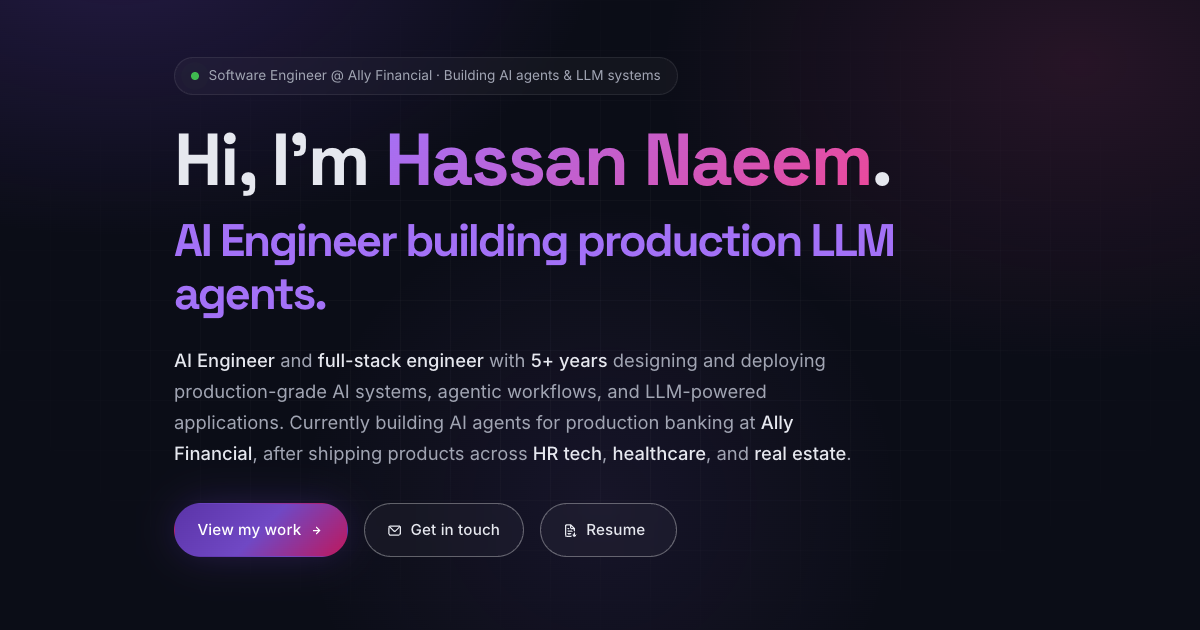
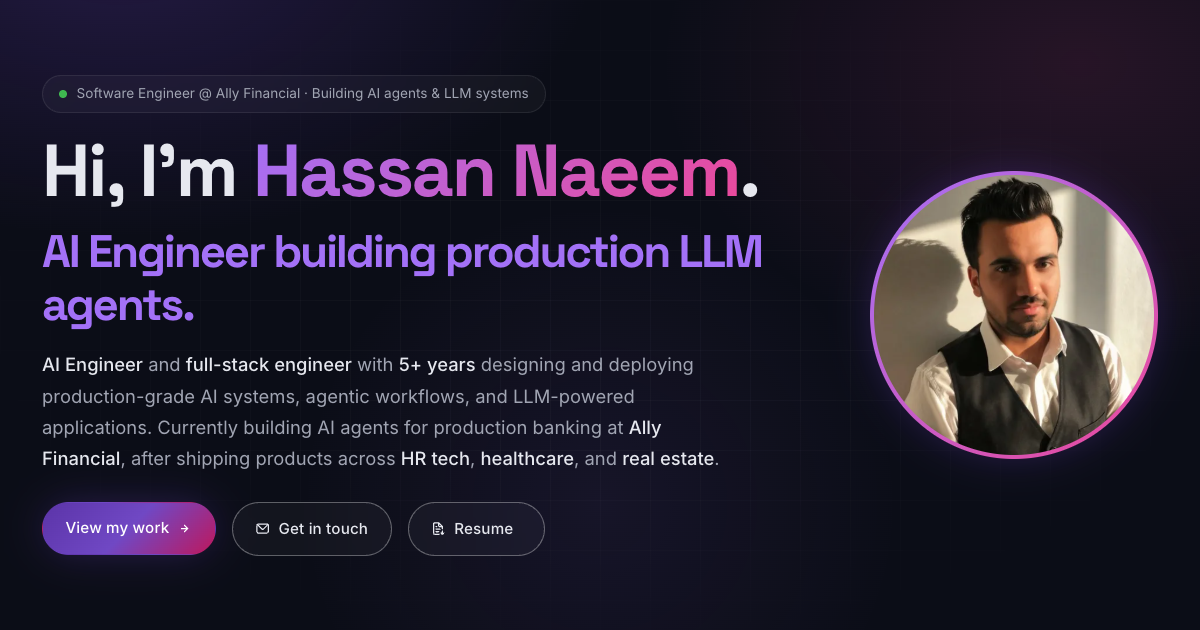
Add portrait, project screenshots and headline metrics
- Hero portrait (WebP, 240/480 srcset) and real headshot in JSON-LD
- Screenshots on VitaLens, Emotion Modeling, Fresh Leads, Neural-Engine
  and CodeLikeBasics cards, lazy-loaded WebP with srcset
- One-line headline metric on each of those cards
- Culturefy entry: scaled to 100K+ users
- New OG preview with portrait; README gets headshot and screenshots

diff --git a/index.html b/index.html
@@ -35,7 +35,7 @@
       property="og:description"
       content="AI Engineer and Software Engineer at Ally Financial, building AI agents and LLM systems. Projects: VitaLens X-ray mirror, emotion modeling with uncertainty, Fresh Leads, Neural-Engine, and more."
     />
-    <meta property="og:image" content="https://hassan-naeem.com/preview.png?v=20261115" />
+    <meta property="og:image" content="https://hassan-naeem.com/preview.png?v=20261115b" />
     <meta property="og:image:width" content="1200" />
     <meta property="og:image:height" content="630" />
     <meta property="og:image:alt" content="Hassan Naeem — AI Engineer portfolio preview" />
@@ -49,7 +49,7 @@
       name="twitter:description"
       content="AI Engineer and Software Engineer at Ally Financial, building AI agents and LLM systems. Projects: VitaLens X-ray mirror, emotion modeling with uncertainty, Fresh Leads, Neural-Engine, and more."
     />
-    <meta name="twitter:image" content="https://hassan-naeem.com/preview.png?v=20261115" />
+    <meta name="twitter:image" content="https://hassan-naeem.com/preview.png?v=20261115b" />
 
     <!-- Favicons -->
     <link rel="icon" type="image/svg+xml" href="./assets/img/favicon.svg" />
@@ -64,7 +64,7 @@
     <link rel="preload" as="font" type="font/woff2" href="./assets/fonts/space-grotesk-700.woff2" crossorigin />
 
     <!-- Styles (bump ?v= when the file changes; assets are cached as immutable) -->
-    <link rel="stylesheet" href="./assets/css/styles.css?v=20261115" />
+    <link rel="stylesheet" href="./assets/css/styles.css?v=20261115b" />
 
     <!-- Structured data: Person schema (Google rich results) -->
     <script type="application/ld+json">
@@ -74,7 +74,7 @@
         "name": "Hassan Naeem",
         "alternateName": "Hassan Naeem",
         "url": "https://hassan-naeem.com/",
-        "image": "https://hassan-naeem.com/assets/img/favicon.png",
+        "image": "https://hassan-naeem.com/assets/img/hassan-naeem.jpg",
         "jobTitle": "Software Engineer",
         "worksFor": {
           "@type": "Organization",
@@ -190,6 +190,7 @@
       <!-- ============ HERO ============ -->
       <section class="hero" id="home">
         <div class="hero__container container">
+          <div class="hero__text">
           <div class="hero__badge">
             <span class="hero__badge-dot"></span>
             Software Engineer @ Ally Financial · Building AI agents &amp; LLM systems
@@ -254,6 +255,19 @@
               aria-label="Email"
               ><svg class="icon" aria-hidden="true"><use href="/assets/img/icons.svg?v=20261115#i-envelope"/></svg></a>
           </div>
+          </div>
+
+          <figure class="hero__portrait">
+            <img
+              src="./assets/img/hassan-naeem-480.webp"
+              srcset="./assets/img/hassan-naeem-240.webp 240w, ./assets/img/hassan-naeem-480.webp 480w"
+              sizes="(max-width: 900px) 112px, 300px"
+              width="480" height="480"
+              alt="Portrait of Hassan Naeem"
+              fetchpriority="high"
+              decoding="async"
+            />
+          </figure>
         </div>
 
         <div class="hero__marquee" aria-hidden="true">
@@ -574,8 +588,8 @@
                   Architected and deployed a production AI Agent system
                   integrating VAPI.ai LLM, HeyGen, AWS Transcribe, and OpenAI
                   APIs, enabling voice-command interactions, autonomous
-                  content generation, and real-time dashboard control.
-                  Designed agentic recruitment workflows with LLM-driven
+                  content generation, and real-time dashboard control,
+                  <strong>scaled to 100K+ users</strong>. Designed agentic recruitment workflows with LLM-driven
                   candidate ranking, interview-scheduling automation, and
                   offer-letter generation via BambooHR integration. Built a
                   GraphQL campaign-intelligence module with ML-driven
@@ -657,6 +671,16 @@
           <div class="projects__grid">
 
             <article class="project" data-reveal>
+              <img
+                class="project__media"
+                src="./assets/img/projects/vitalens-640.webp"
+                srcset="./assets/img/projects/vitalens-640.webp 640w, ./assets/img/projects/vitalens-1280.webp 1280w"
+                sizes="(max-width: 700px) 100vw, 380px"
+                width="1280" height="800"
+                alt="VitaLens landing page: a 3D skeleton and organs tracking a person in real time"
+                loading="lazy"
+                decoding="async"
+              />
               <div class="project__head">
                 <svg class="icon project__icon" aria-hidden="true"><use href="/assets/img/icons.svg?v=20261115#i-user-md"/></svg>
                 <div class="project__links">
@@ -668,6 +692,7 @@
                 </div>
               </div>
               <h3>VitaLens · Live X-ray Mirror</h3>
+              <p class="project__metric">~1,200 rigged anatomy parts · 9 languages · on-device tracking</p>
               <p>
                 Point a webcam at yourself and see an anatomical
                 <strong>3D skeleton, organs and vessels</strong> move with you
@@ -687,6 +712,16 @@
             </article>
 
             <article class="project" data-reveal>
+              <img
+                class="project__media"
+                src="./assets/img/projects/emotion-640.webp"
+                srcset="./assets/img/projects/emotion-640.webp 640w, ./assets/img/projects/emotion-1280.webp 1280w"
+                sizes="(max-width: 700px) 100vw, 380px"
+                width="1280" height="800"
+                alt="Emotion Modeling demo page: face mesh with valence–arousal, pulse and blink readouts"
+                loading="lazy"
+                decoding="async"
+              />
               <div class="project__head">
                 <svg class="icon project__icon" aria-hidden="true"><use href="/assets/img/icons.svg?v=20261115#i-smile"/></svg>
                 <div class="project__links">
@@ -703,6 +738,7 @@
                 </div>
               </div>
               <h3>Emotion Modeling · Knowing When It Doesn't Know</h3>
+              <p class="project__metric">CCC 0.720 · 92% 2D coverage · 5 seeds</p>
               <p>
                 Valence–arousal estimation from faces that
                 <strong>reports its own uncertainty</strong>. Deep evidential
@@ -719,6 +755,16 @@
               </div>
             </article>
             <article class="project" data-reveal>
+              <img
+                class="project__media"
+                src="./assets/img/projects/freshleads-640.webp"
+                srcset="./assets/img/projects/freshleads-640.webp 640w, ./assets/img/projects/freshleads-1280.webp 1280w"
+                sizes="(max-width: 700px) 100vw, 380px"
+                width="1280" height="800"
+                alt="Fresh Leads home page with industry and location lead search"
+                loading="lazy"
+                decoding="async"
+              />
               <div class="project__head">
                 <svg class="icon project__icon" aria-hidden="true"><use href="/assets/img/icons.svg?v=20261115#i-crosshair"/></svg>
                 <div class="project__links">
@@ -730,6 +776,7 @@
                 </div>
               </div>
               <h3>Fresh Leads · Verified Local Leads</h3>
+              <p class="project__metric">Live SaaS · 571 passing tests · Stripe billing</p>
               <p>
                 A live SaaS that finds local businesses, verifies their phone
                 numbers and emails <strong>at search time</strong>, confirms
@@ -773,6 +820,16 @@
             </article>
 
             <article class="project" data-reveal>
+              <img
+                class="project__media"
+                src="./assets/img/projects/neural-640.webp"
+                srcset="./assets/img/projects/neural-640.webp 640w, ./assets/img/projects/neural-1280.webp 1280w"
+                sizes="(max-width: 700px) 100vw, 380px"
+                width="1280" height="800"
+                alt="Neural-Engine field guide: forward, loss, backward and update steps"
+                loading="lazy"
+                decoding="async"
+              />
               <div class="project__head">
                 <svg class="icon project__icon" aria-hidden="true"><use href="/assets/img/icons.svg?v=20261115#i-processor"/></svg>
                 <div class="project__links">
@@ -789,6 +846,7 @@
                 </div>
               </div>
               <h3>Neural-Engine · From First Principles</h3>
+              <p class="project__metric">~200 lines of Python · zero dependencies</p>
               <p>
                 A neural network and <strong>autograd engine</strong> in
                 ~200 lines of pure Python with zero libraries. A
@@ -924,6 +982,16 @@
             </article>
 
             <article class="project" data-reveal>
+              <img
+                class="project__media"
+                src="./assets/img/projects/codelikebasics-640.webp"
+                srcset="./assets/img/projects/codelikebasics-640.webp 640w, ./assets/img/projects/codelikebasics-1280.webp 1280w"
+                sizes="(max-width: 700px) 100vw, 380px"
+                width="1280" height="800"
+                alt="CodeLikeBasics welcome screen for new and returning learners"
+                loading="lazy"
+                decoding="async"
+              />
               <div class="project__head">
                 <svg class="icon project__icon" aria-hidden="true"><use href="/assets/img/icons.svg?v=20261115#i-book-open"/></svg>
                 <div class="project__links">
@@ -940,6 +1008,7 @@
                 </div>
               </div>
               <h3>CodeLikeBasics</h3>
+              <p class="project__metric">43+ programming languages · gamified</p>
               <p>
                 An interactive, gamified learning platform where beginners
                 master programming through tutorials, quiz games, and
@@ -1262,6 +1331,6 @@
       <svg class="icon" aria-hidden="true"><use href="/assets/img/icons.svg?v=20261115#i-arrow-up"/></svg>
     </a>
 
-    <script src="./assets/js/main.js?v=20261115"></script>
+    <script src="./assets/js/main.js?v=20261115b"></script>
   </body>
 </html>

diff --git a/assets/css/styles.css b/assets/css/styles.css
@@ -453,10 +453,34 @@ button {
 }
 
 .hero__container {
+  display: grid;
+  grid-template-columns: minmax(0, 1fr) auto;
+  align-items: center;
+  gap: 3rem;
+}
+.hero__text {
   display: flex;
   flex-direction: column;
   gap: 1.6rem;
-  max-width: 900px;
+  max-width: 780px;
+  min-width: 0;
+}
+
+.hero__portrait {
+  position: relative;
+  width: clamp(220px, 24vw, 300px);
+  aspect-ratio: 1;
+  border-radius: 50%;
+  padding: 4px;
+  background: var(--gradient-text);
+  box-shadow: var(--shadow-glow);
+}
+.hero__portrait img {
+  width: 100%;
+  height: 100%;
+  border-radius: 50%;
+  object-fit: cover;
+  background: var(--bg-elev);
 }
 
 .hero__badge {
@@ -865,6 +889,27 @@ button {
 }
 .project:hover::before { opacity: 1; }
 
+.project__media {
+  width: calc(100% + 1.5rem);
+  max-width: none;
+  margin: -0.75rem -0.75rem 1.25rem;
+  aspect-ratio: 16 / 10;
+  height: auto;
+  object-fit: cover;
+  object-position: top;
+  border-radius: calc(var(--radius-md) - 4px);
+  border: 1px solid var(--border);
+  background: var(--bg-elev);
+}
+
+.project__metric {
+  font-family: var(--font-mono);
+  font-size: 0.78rem;
+  color: var(--accent-2);
+  margin: -0.25rem 0 0.75rem;
+}
+.project p.project__metric { flex: 0; margin-bottom: 0.75rem; color: var(--accent-2); font-size: 0.78rem; }
+
 .project__head {
   display: flex;
   justify-content: space-between;
@@ -1136,6 +1181,9 @@ button {
   :root { --section-pad: 5rem; }
 
   .about__grid { grid-template-columns: 1fr; }
+
+  .hero__container { grid-template-columns: 1fr; gap: 1.5rem; }
+  .hero__portrait { order: -1; width: 112px; padding: 3px; }
 
   .nav__menu {
     visibility: hidden; /* keeps the closed menu out of tab order and the a11y tree */

diff --git a/privacy.html b/privacy.html
@@ -21,7 +21,7 @@
     <link rel="icon" type="image/png" href="./assets/img/favicon.png" />
 
     <!-- Styles -->
-    <link rel="stylesheet" href="./assets/css/styles.css?v=20261115" />
+    <link rel="stylesheet" href="./assets/css/styles.css?v=20261115b" />
   </head>
   <body>
     <div class="bg-gradient"></div>

diff --git a/README.md b/README.md
@@ -2,6 +2,12 @@
 <div align="center">
 
 <a href="https://hassan-naeem.com/">
+  <img src="https://hassan-naeem.com/assets/img/hassan-naeem-240.webp" width="140" height="140" alt="Hassan Naeem" />
+</a>
+
+<br>
+
+<a href="https://hassan-naeem.com/">
   <img src="https://readme-typing-svg.herokuapp.com?font=Fira+Code&weight=600&size=30&duration=3000&pause=800&color=6E40C9&center=true&vCenter=true&width=650&lines=Hi+%F0%9F%91%8B%2C+I'm+Hassan+Naeem;AI+Engineer+%F0%9F%A4%96;Full-Stack+Engineer+%E2%9A%A1;LLMs+%7C+Agents+%7C+RAG" alt="Typing SVG" />
 </a>
 
@@ -156,6 +162,8 @@ ask_me_about: [LLMs, Agents, RAG, React Native, Python, TypeScript]
 
 #### 🎯 [Fresh Leads — Verified Local Business Leads](https://www.fresh-leads.io)
 
+<a href="https://www.fresh-leads.io"><img src="https://hassan-naeem.com/assets/img/projects/freshleads-640.webp" alt="Fresh Leads home page" width="100%" /></a>
+
 Live SaaS that finds local businesses, verifies phones & emails at search time, confirms they're still trading, and scores each one against a buyer playbook. Public API, Stripe billing, required 2FA, 571 passing tests. [Live site](https://www.fresh-leads.io).
 
 ![Next.js](https://img.shields.io/badge/Next.js_15-000000?style=flat-square&logo=next.js&logoColor=white) ![TypeScript](https://img.shields.io/badge/TypeScript-3178C6?style=flat-square&logo=typescript&logoColor=white) ![Supabase](https://img.shields.io/badge/Supabase-3FCF8E?style=flat-square&logo=supabase&logoColor=white) ![Stripe](https://img.shields.io/badge/Stripe-635BFF?style=flat-square&logo=stripe&logoColor=white)
@@ -164,6 +172,8 @@ Live SaaS that finds local businesses, verifies phones & emails at search time, 
 <td width="50%" valign="top">
 
 #### 🎭 [Emotion Modeling — Knowing When It Doesn't Know](https://github.com/Hassan-Naeem-code/Emotion-Modelling)
+
+<a href="https://hassan-naeem.com/emotion-modeling"><img src="https://hassan-naeem.com/assets/img/projects/emotion-640.webp" alt="Emotion Modeling demo page" width="100%" /></a>
 
 Valence–arousal estimation from faces that **reports its own uncertainty**. Deep evidential regression on AffectNet (5 seeds, **CCC 0.720**) with a joint conformal score that lifts true 2D coverage from ~85% to **92%** with tighter regions than Bonferroni. [**Live demo**](https://hassan-naeem.com/emotion-modeling) runs the ONNX model in your browser, abstains when unsure, and no frames leave the device.
 
@@ -176,6 +186,8 @@ Valence–arousal estimation from faces that **reports its own uncertainty**. De
 
 #### 🩻 [VitaLens — Live X-ray Mirror](https://hassan-naeem.com/vitalens)
 
+<a href="https://hassan-naeem.com/vitalens"><img src="https://hassan-naeem.com/assets/img/projects/vitalens-640.webp" alt="VitaLens landing page" width="100%" /></a>
+
 Point a webcam at yourself and see an anatomical **3D skeleton, organs and vessels** move with you in real time. About 1,200 BodyParts3D parts are rigged to MediaPipe pose, face and hand tracking, with a perspective-correct head fit, posture and joint-angle readings, a narrated tour and quiz in **9 languages**, and a Claude photo health check. Tracking runs in a Web Worker; nothing leaves the device except photos you choose to send. [**Try it live**](https://hassan-naeem.com/vitalens).
 
 ![Next.js](https://img.shields.io/badge/Next.js_16-000000?style=flat-square&logo=next.js&logoColor=white) ![three.js](https://img.shields.io/badge/three.js-000000?style=flat-square&logo=three.js&logoColor=white) ![MediaPipe](https://img.shields.io/badge/MediaPipe-0097A7?style=flat-square&logo=google&logoColor=white) ![Claude](https://img.shields.io/badge/Claude_API-D97757?style=flat-square&logo=anthropic&logoColor=white)
@@ -186,6 +198,8 @@ Point a webcam at yourself and see an anatomical **3D skeleton, organs and vesse
 <td colspan="2" valign="top">
 
 #### ⚙ [Neural-Engine — Neural Networks from First Principles](https://github.com/Hassan-Naeem-code/Neural-Engine)
+
+<a href="https://hassan-naeem-code.github.io/Neural-Engine/guide.html"><img src="https://hassan-naeem.com/assets/img/projects/neural-640.webp" alt="Neural-Engine field guide" width="100%" /></a>
 
 A neural network and autograd engine in **~200 lines of pure Python, with no libraries**. A `Value` graph runs backprop through the chain rule, with `Neuron → Layer → MLP` on top, and trains a network to solve XOR. It ships with runnable lessons, gradient checks against numerical slopes, and an [**interactive visual guide**](https://hassan-naeem-code.github.io/Neural-Engine/guide.html): drag sliders on a neuron, roll a ball down the loss curve, step through backprop, and watch XOR being learned live.
 
@@ -237,6 +251,8 @@ Production FastAPI service for inbound carrier sales — FMCSA MC verification, 
 <td width="50%" valign="top">
 
 #### 📚 [CodeLikeBasics](https://github.com/Hassan-Naeem-code/Code-Like-Basics)
+
+<a href="https://code-like-basics.vercel.app"><img src="https://hassan-naeem.com/assets/img/projects/codelikebasics-640.webp" alt="CodeLikeBasics welcome screen" width="100%" /></a>
 
 Gamified learning platform for 43+ programming languages — XP, knowledge tree, achievements, live coding sandboxes. [Live demo](https://code-like-basics.vercel.app).
 
